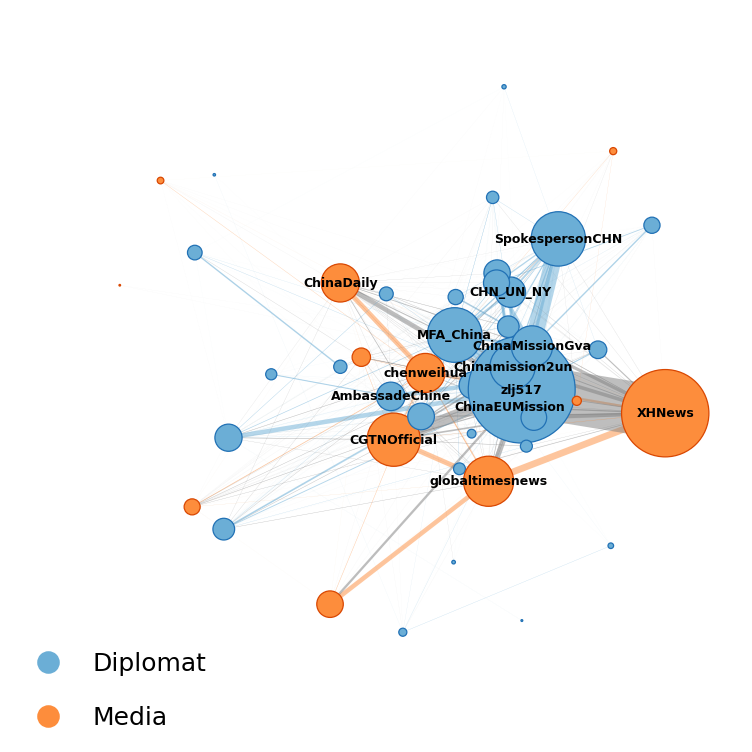
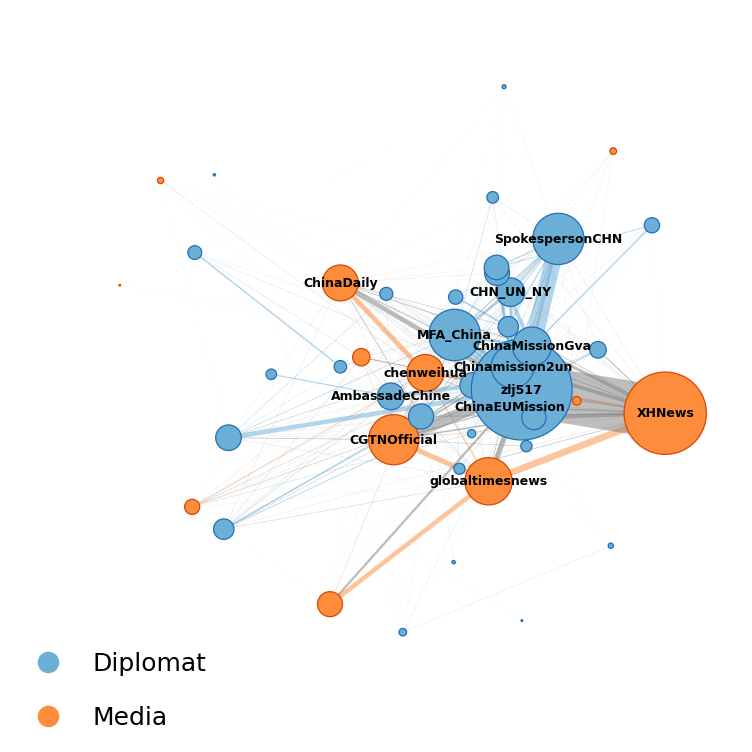
tweaks

diff --git a/networks/src/network_main.py b/networks/src/network_main.py
@@ -207,14 +207,15 @@ def main(n_labels, infile, outfolder):
     ''' mentions '''
     edge_mult = 4.5
     print('--> generating mentions plot')
-    node_divisor = 600*12
+    node_divisor = 600*15
     edge_divisor = 100*edge_mult
     title = 'Diplomats and Media sub-network (nodesize: total number of mentions)'
     filename = 'network_focus_mentions'
     nudge_triple = [
         ('MFA_China', 0, 0.1),
         ('AmbassadeChine', 0, 0.05),
-        ('PDChina', 0, 0.05)
+        ('PDChina', 0, 0.05),
+        ('ChnMission', 0, 0.05)
         ] 
 
     plot_network(
@@ -262,7 +263,7 @@ def main(n_labels, infile, outfolder):
 
     ## weighted degree 
     print('--> generating weighted degree plot')
-    node_divisor = 2.5*8
+    node_divisor = 2.5*9
     edge_divisor = 100*edge_mult
     title = 'Diplomats and Media sub-network (nodesize: number of neighbors weighted)'
     filename = 'network_focus_weighted_degree'
